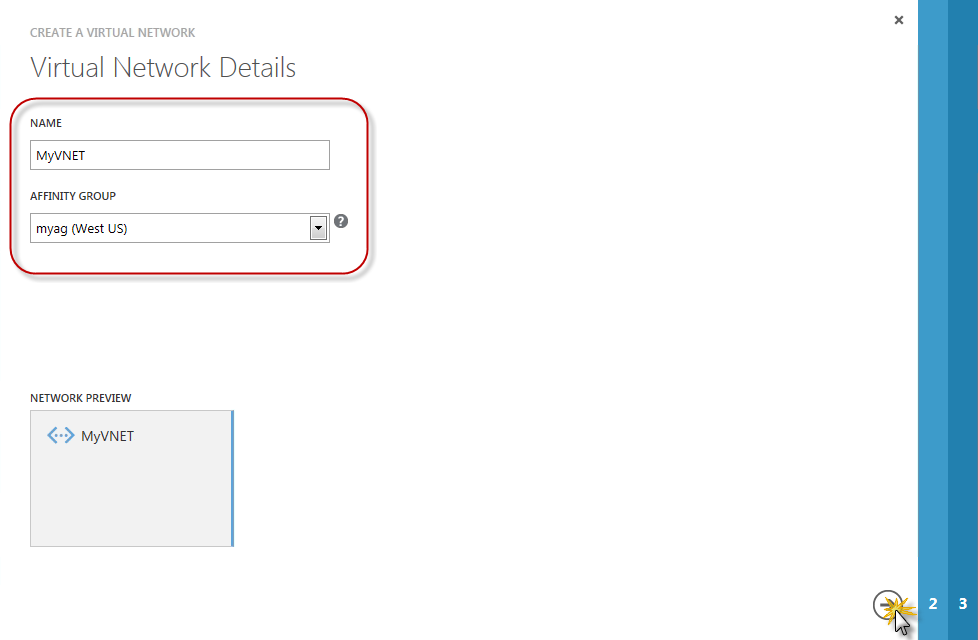
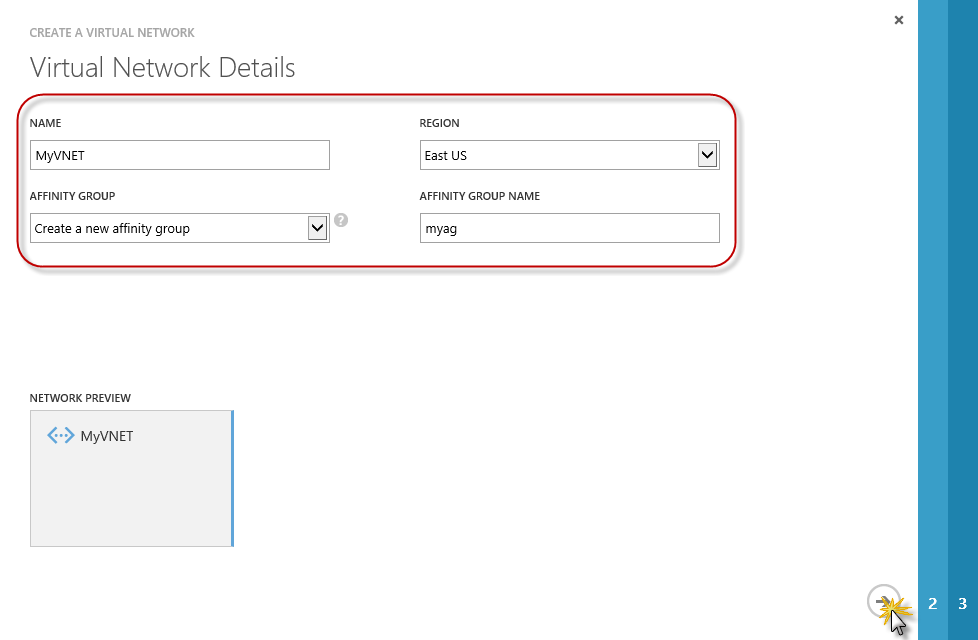
Updated document steps, wording and screenshots matching the new azure portal. Updated title in Lab.xml, LICENSE.md, README.md and Dependencies.depi removing the "- for Visual Studio 2012" legend. Deleted unnecessary screenshots.

diff --git a/HOL.md b/HOL.md
@@ -1,12 +1,12 @@
 <a name="handsonlab"></a>
-# Connecting a PaaS application to an IaaS Application with a Virtual Network - for Visual Studio 2012 #
+# Connecting a PaaS application to an IaaS Application with a Virtual Network #
 
 ---
 
 <a name="Overview"></a>
 ## Overview ##
 
-In this lab, you will create a Virtual Machine with SQL Server installed using Windows Azure Management Portal. Then you will modify and deploy a sample Web application to a new Cloud Service. By the end, you will communicate the Cloud Service and the SQL Server VM through a Virtual Network.
+In this lab, you will create a Virtual Machine with SQL Server installed using Windows Azure Management Portal. Then you will modify and deploy a sample Web application to a new Cloud Service. By the end, you will communicate the Cloud Service and the SQL Server Virtual Machine through a Virtual Network.
 
 <a name="Objectives"></a>
 ### Objectives ###
@@ -24,9 +24,7 @@ The following is required to complete this hands-on lab:
 
 - [Visual Studio Express 2012 for Web](http://www.microsoft.com/visualstudio/) or greater
 - [Windows Azure Tools for Microsoft Visual Studio 1.8](http://www.microsoft.com/windowsazure/sdk/)
-- A Windows Azure subscription with the Virtual Machines Preview enabled - [sign up for a free trial](http://aka.ms/WATK-FreeTrial)
-
-> **Note:** This lab was designed for Windows 8.
+- A Windows Azure subscription - [sign up for a free trial](http://aka.ms/WATK-FreeTrial)
 
 ---
 
@@ -42,28 +40,17 @@ This hands-on lab includes the following exercises:
  
 Estimated time to complete this lab: **45 minutes**.
 
+---
+
 <a name="GettingStarted"></a>
 ### Getting Started - Configuring Virtual Networking ###
 
 For this lab, you will define a virtual network where you can assign the virtual machines to specific subnets. 
 
 <a name="GettingStartedTask1"></a>
-#### Task 1 - Creating an Affinity Group ####
+#### Task 1 - Creating a new Virtual Network with a new affinity group ####
 
-The first task is to create an affinity group for the Virtual Network.
-
-1. Open a browser a go to <https://manage.windowsazure.com>. When prompted, login with your **Windows Azure** credentials. In the Windows Azure portal, click **Networks**, **Affinity Groups** and at the bottom click **Create**.
-
-1. Name the affinity group _myag_ and select a **Region**. Click the button to create the affinity group.
-
-	![Creating an Affinity Group](Images/creating-an-affinity-group.png?raw=true)
-
-	_Creating an Affinity Group_
-
-<a name="GettingStartedTask2"></a>
-#### Task 2 - Creating a new Virtual Network ####
-
-The next step is to create a new virtual network to your subscription.
+The first task is to create a new Virtual Network to your subscription with a new affinity group.
 
 1. In the Windows Azure Portal, click **New**, select **Networks** | **Virtual Network** and then click **Custom Create**.
 
@@ -71,13 +58,13 @@ The next step is to create a new virtual network to your subscription.
 
 	_Virtual Network custom create_
 
-1. Set a Name for the virtual network, for example _MyVNET_ along with the description and click the arrow button to continue.
+1. Set a Name for the virtual network, for example _MyVNET_. Select _Create a new affinity group_ option from the **affinity group** dropdown list, set a name for it, for example _myag_, and choose a region. Click the arrow button to continue.
 
 	![creating a new virtual network](Images/creating-a-new-virtual-network.png?raw=true)
 
 	_Creating a new virtual network_
 
-1. Set the **Address Space** value to _192.168.0.0/16_ and add a subnet named _AppSubnet_ with a prefix of _192.168.1.0/24_.
+1. At the top right corner, select the **CIDR** option. Then set the Address Space Starting IP value to _192.168.0.0_ and its Address CIDR to _/16_. Finally, add a subnet named _AppSubnet_ with a Starting IP of _192.168.1.0_ and an Address CIDR of _/24_. Click the arrow button to continue to the next step.
 
 	![Adding an address space and subnets](Images/adding-an-address-space-and-subnets.png?raw=true)
 
@@ -88,6 +75,8 @@ The next step is to create a new virtual network to your subscription.
 	![Creating the Virtual Network](Images/creating-the-virtual-network.png?raw=true "Creating the Virtual Network")
 
 	_Creating the Virtual Network_
+
+---
 
 <a name="Exercise1"></a>
 ### Exercise 1: Creating a SQL Server VM ###
@@ -105,25 +94,25 @@ In this task, you will create a new Virtual Machine using the Windows Azure Port
 
 	![Creating a New VM](Images/creating-a-new-vm.png?raw=true "Creating a New VM")
  
-	_Creating a New VM_
+	_Creating a New Virtual Machine_
 
-1. In the **Virtual machine operating system Selection** page, click **Platform Images** on the left menu and select the **SQL Server 2012** OS image from the list. Click the arrow to continue.
+1. In the **Virtual machine operating system selection** page, click **Platform Images** on the left menu and select the **SQL Server 2012 SP1** OS image from the list. Click the arrow to continue.
 
-1. In the **Virtual machine Configuration** page, enter a VM **Name**, complete the **Admin Password** and the **Confirmation** fields with the VM admin's password and set the VM **Size** to _Small_. Click the **Next** to continue.
+1. In the **Virtual machine configuration** page, enter a Virtual Machine **Name**, complete the **Admin Password** and the **Confirmation** fields with the Virtual Machine admin's password and set the Virtual Machine **Size** to _Small_. Click the **Next** to continue.
 
 	>**Note:** You will use these credentials in future steps to connect to the VM using remote desktop.
 
-	![VM Configuration](Images/vm-configuration.png?raw=true "VM Configuration")
+	![Virtual Machine Configuration](Images/vm-configuration.png?raw=true "Virtual Machine Configuration")
  
 	_Virtual Machine Configuration_
 
-1. In the **Virtual machine Mode** page, select **Standalone Virtual Machine** option and provide a unique name for the **DNS Name**. Finally, select a **Storage Account** or leave the default value _Use Automatically Generated Storage Account_ and then select the Virtual Network you created previously from the **Region/Affinity Group/Virtual Network** list and click **Next** to contiue.
+1. In the **Virtual machine mode** page, select **Standalone Virtual Machine** option and provide a unique name for the **DNS Name**. Finally, select a **Storage Account** or leave the default value _Use an automatically generated storage account_ and then select the Virtual Network you created previously from the **Region/Affinity Group/Virtual Network** list. Select the **APPSUBNET** virtual network subnet from the Virtual Network Subnet list and click **Next** to continue.
 
 	![Selecting VM mode](Images/selecting-vm-mode.png?raw=true "Selecting VM mode")
 
 	_Setting the Virtual Machine Mode_
 
-1. In the **Virtual machine Options** page, select the **APPSUBNET** virtual network subnet and click the finish button to create the new VM.
+1. In the **Virtual machine Options** page, leave the default values and click the finish button to create the new Virtual Machine.
 
 	![VM Options](Images/vm-options.png?raw=true "VM Options")
 
@@ -133,9 +122,9 @@ In this task, you will create a new Virtual Machine using the Windows Azure Port
 
 	> **Note:** It will take from 8 to 10 minutes for the Virtual Machine to complete the provisioning process.
 
-1. Now, you will create and attach empty data disks to store the SQL Server logs and data files, and you will also add an endpoint. To do this, in the **Virtual Machines** section, select the SQL Server VM you created in this task.
+1. Now, you will create and attach empty data disks to store the SQL Server logs and data files, and you will also add an endpoint. To do this, in the **Virtual Machines** section, select the SQL Server Virtual Machine you created in this task.
 
-1. In the VM's **Dashboard**, click **Attach** in the menu at the bottom of the page and select **Attach Empty Disk**.
+1. In the Virtual Machine's **Dashboard**, click **Attach** in the menu at the bottom of the page and select **Attach Empty Disk**.
 
 	![Attach Empty Disk](Images/attach-empty-disk.png?raw=true "Attach Empty Disk")
 
@@ -143,11 +132,11 @@ In this task, you will create a new Virtual Machine using the Windows Azure Port
 
 1. In the **Attach Empty Disk** page, set the **Size** to _50_ GB and create the Disk.
 
-1. Wait until the process to attach the disk finishes. Repeat the steps 8 to 10 to create a second disk.
+1. Wait until the attach disk process finishes. Repeat the steps 8 to 10 to create a second disk.
 
-1. You will see three disks for the VM: one for the **OS** and other two for **Data** and **Logs**.
+1. You will see three disks for the Virtual Machine: one for the **OS** and other two for **Data** and **Logs**.
 
-	> **Note:** It might take a few minutes until the data disks appear in the VM's dashboard within the Azure Portal.
+	> **Note:** It might take a few minutes until the data disks appear in the VM's dashboard within the Windows Azure Portal.
 
 <a name="Ex1Task2"></a>
 #### Task 2 - Configuring SQL Server 2012 Instance ####
@@ -160,7 +149,7 @@ In this task, you will set up SQL Server and configure it to enable remote acces
  
 	_Windows Azure Portal_
 
-1. Select your VM from the Virtual Machines list and click **Connect** to connect using **Remote Desktop Connection**.
+1. Select your Virtual Machine from the Virtual Machines list and click **Connect** to connect using **Remote Desktop Connection**.
 
 1. In the Virtual Machine, open **Server Manager** from **Start | All Programs | Administrative Tools**.
 
@@ -182,7 +171,7 @@ In this task, you will set up SQL Server and configure it to enable remote acces
 
 1. Follow the **New Simple Volume Wizard**. When asked for the **Volume Label** use _SQLData_.
 
-1. Wait until the process for the first disk is completed. Repeat the steps 5 to 8 but this time using the second disk. Set the **Volume Label** to _SQLLogs_.
+1. Wait until the process for the first disk is completed. Repeat the steps 6 to 8 but this time using the second disk. Set the **Volume Label** to _SQLLogs_.
 
 1. The **Disk Management** list of available disks should now show the **SQLData** and **SQLLogs** disks like in the following figure:
 
@@ -198,14 +187,14 @@ In this task, you will set up SQL Server and configure it to enable remote acces
  
 	_Enabling SQL Server Protocols_
 
-1. Go to the **SQL Server Services** node and right-click the **SQL Server (MSSQLSERVER)** item and select **Restart.**
+1. Select the **SQL Server Services** node and right-click the **SQL Server (MSSQLSERVER)** item and select **Restart.**
 
 <a name="Ex1Task3"></a>
 #### Task 3 - Installing the AdventureWorks Database ####
 
 In this task, you will add the **AdventureWorks** database that will be used by the sample application in the following exercise.
 
-1. In order to enable downloads from IE you will need to update **Internet Explorer Enhanced Security Configuration**. In the Azure VM, open **Server Manager** from **Start | All Programs | Administrative Tools**.
+1. In order to enable downloads from IE you will need to update **Internet Explorer Enhanced Security Configuration**. In the Windows Azure Virtual Machine, open **Server Manager** from **Start | All Programs | Administrative Tools**.
 
 1. In the **Server Manager** window, click **Configure IE ESC** within the **Security Information** section.
 
@@ -213,7 +202,7 @@ In this task, you will add the **AdventureWorks** database that will be used by 
  
 	_Configure Internet Explorer Enhanced Security_
 
-1. In the **Internet explorer Enhanced Security** dialog, turn **off** enhanced security for **Administrators** and click **OK**.
+1. In the **Internet explorer Enhanced Security Configuration** dialog, turn **off** enhanced security for **Administrators** and click **OK**.
 
  	![Internet Explorer Enhanced Security](./Images/Internet-Explorer-Enhanced-Security.png?raw=true "Internet Explorer Enhanced Security")
  
@@ -239,9 +228,9 @@ In this task, you will add the **AdventureWorks** database that will be used by 
 
 1. Restart SQL Server. In the **Object Explorer**, right-click on the server node and select **Restart**. 
 
-1. This lab uses the **AdventureWorks2012** database. Open an **Internet Explorer** browser and go to <http://msftdbprodsamples.codeplex.com/> to download  the **SQL Server 2012** sample databases. Once on the page click SQL Server 2012 DW and then download Adventure Works 2012 Data File. Download the file to F:\Data.
+1. This lab uses the **AdventureWorks2012** database. Open an **Internet Explorer** browser and go to <http://msftdbprodsamples.codeplex.com/> to download  the **SQL Server 2012** sample databases. Once on the page click _Download AdventureWorks Databases – 2008, 2008R2 and 2012_ and then download _AdventureWorks2012_Database.zip_ file. Download it to F:\Data.
 
-1. Right click the database file and open the properties. Click **unblock**.
+1. Extract the files from the zip one into F:\Data, then right click the database file and open the properties. Click **Unblock**.
 
 1. Add the **AdventureWorks2012** sample database to your SQL Server. To do this, open **SQL Server Management Studio**, connect to **(local)** using your Windows Account. Locate your SQL Server instance node and expand it.
 
@@ -261,7 +250,7 @@ In this task, you will add the **AdventureWorks** database that will be used by 
 
 1. Click **OK** to attach the database. 
 
-1. Create a Full Text Catalog for the database. You will consume this feature with a MVC application you will deploy in the next exercise. To do this, expand **Storage** node within **AdventureWorks2012** database.
+1. Create a Full Text Catalog for the database. You will consume this feature with an MVC application you will deploy in the next exercise. To do this, expand **Storage** node within **AdventureWorks2012** database.
 
 1. Right-click **Full Text Catalogs** folder and select **New Full-Text Catalog**.
 
@@ -275,7 +264,7 @@ In this task, you will add the **AdventureWorks** database that will be used by 
  
 	_Full-Text Catalog Name_
 
-1. Right-click the **AdventureWorksCatalog** and select **Properties**. Select the **Tables/Views** menu item. Add the **Production.Product** table to the **Table/View objects assigned to the Catalog** list. Check _Name_ from **Eligible columns**, select **English** in _Language for Word Breaker_ and click **OK**.
+1. Right-click the **AdventureWorksCatalog** and select **Properties**. Select the **Tables/Views** menu item. Add the **Production.Product** table to the **Table/view objects assigned to the catalog** list. Check _Name_ from **Eligible columns**, select **English** in _Language for Word Breaker_ column and click **OK**.
 
 	![Full-Text Catalog Properties](Images/full-text-catalog-properties.png?raw=true "Full-Text Catalog Properties")
  
@@ -283,7 +272,7 @@ In this task, you will add the **AdventureWorks** database that will be used by 
 
 1. Enable **Mixed Mode Authentication** to the SQL Server instance. To do this, in the **SQL Server Management Studio**, right-click the server instance and click **Properties**.
 
-1. Select the **Security** page in the right side pane and then select **SQL Server and Windows Authentication mode** under **Server Authentication** section. Click **OK** to save changes.
+1. Select the **Security** page in the left side pane and then select **SQL Server and Windows Authentication mode** under **Server Authentication** section. Click **OK** to save changes.
 
     ![Mixed authentication mode](Images/mixed-authentication-mode.png?raw=true "Mixed authentication mode")
 
@@ -321,7 +310,7 @@ In this task, you will add the **AdventureWorks** database that will be used by 
  
 	_Adding Database role membership to CloudShop user_
  
-	>**Note:** The application you will deploy in the next exercise uses Universal Providers to manage sessions. The first time the application run the Provider will create a Sessions table within AdventureWorks database. For that reason, you are assigning db_owner role for the CloudShop user. Once you run the application for the first time, you can remove this role for the user as it will not need those permissions anymore.
+	>**Note:** The application you will deploy in the next exercise uses Universal Providers to manage sessions. The first time the application run the Provider will create a Sessions table within AdventureWorks2012 database. For that reason, you are assigning db_owner role for the CloudShop user. Once you run the application for the first time, you can remove this role for the user as it will not need those permissions anymore.
 
 1. Close the **SQL Server Management Studio**.
 
@@ -361,6 +350,7 @@ In this task, you will add the **AdventureWorks** database that will be used by 
 
 1. Close **Windows Firewall with Advanced Security** window and then close the **Remote Desktop Connection**.
 
+---
 
 <a name="Exercise2"></a>
 ### Exercise 2: Deploying a Simple MVC4 Application ###
@@ -374,9 +364,9 @@ In this task, you will change the connection string to point to the SQL Server i
 
 1. Navigate to the **Windows Azure Portal** using a Web browser and sign in using the **Microsoft Account** associated with your Windows Azure account.
 
-1. In the left side pane, click on **Virtual Machines** and locate the SQL Server Virtual Machine you created in the previous exercise. Select the VM and then click **Connect**. 
+1. In the left side pane, click on **Virtual Machines** and locate the SQL Server Virtual Machine you created in the previous exercise. Select the Virtual Machine and then click **Connect**. 
 
-1. When prompted to save or open the .rdp file, click **Open** and then log on using the Admin credentials you defined when you created the VM.
+1. When prompted to save or open the .rdp file, click **Open** and then log on using the Admin credentials you defined when you created the Virtual Machine.
 
 1. Once logged on, open a **Command Prompt** window and type **ipconfig** to display the machine's IP configuration.
 
@@ -388,7 +378,7 @@ In this task, you will change the connection string to point to the SQL Server i
 
 1. Open Visual Studio Express 2012 for Web as administrator.
 
-1. Open the solution **IaaSDeploySimpleApp.sln** located in the folder **Ex02-DeploySampleApp** under the **Source** folder of this lab.
+1. Open the solution **IaasDeploySimpleApp.sln** located in the folder **Ex02-DeploySampleApp** under the **Source** folder of this lab.
 
 1. Compile the solution in order to download the required packages.
 
@@ -402,7 +392,7 @@ In this task, you will change the connection string to point to the SQL Server i
 	</connectionStrings>
 	````
 
-1. In order to enable communication between the Web Role and the SQL Server VM, you need configure the Web Role to connect to the same **Virtual Network** as the SQL Server VM. To do so, open the **ServiceConfiguration.Cloud.cscfg** under the **CloudShop.Azure** project and add the highlighted  configuration:
+1. In order to enable communication between the Web Role and the SQL Server Virtual Machine, you need configure the Web Role to connect to the same **Virtual Network** as the SQL Server Virtual Machine. To do so, open the **ServiceConfiguration.Cloud.cscfg** under the **CloudShop.Azure** project and add the highlighted  configuration:
 
 	<!--mark: 9-18-->
 	````XML
@@ -450,13 +440,13 @@ In this task, you will publish the Web Application to Windows Azure using Visual
 
 1. Click the **New** link located at the bottom of the page, select **Compute** | **Cloud Service** and then **Custom Create**.
 
-1. In the **Create a Cloud Service** window, enter **CloudShop** in the **Url** field, select **myag** from the **Region/Affinity Group** selection list and check the **Deploy a Cloud Service package now** option.
+1. In the **Create a cloud service** window, enter **CloudShop** in the **Url** field, select **myag** from the **Region or Affinity Group** selection list and check the **Deploy a Cloud Service package now** option.
 
 	![New Cloud Service](Images/new-cloud-service5.png?raw=true "New Cloud Service")
 
 	_New Cloud Service_
 
-1. In the **Publish your Cloud Service** window, enter a name for the new deployment (for instance **CloudShop**). Enter the location for your package and configuration files (ussually under the bin\Release\app.publish folder of your cloud project) and check the **Deploy even if one or more roles contain a single instance** option. Then click the **Finish** button.
+1. In the **Publish your cloud service** window, enter a name for the new deployment (for instance **CloudShop**). Enter the location for your package and configuration files (usually under the bin\Release\app.publish folder of your cloud project) and check the **Deploy even if one or more roles contain a single instance** option. Then click the **Finish** button.
 
 	![Publish your cloud service](Images/new-cloud-service4.png?raw=true "New Cloud Service")
 
@@ -464,8 +454,7 @@ In this task, you will publish the Web Application to Windows Azure using Visual
 
 1. Wait until your new _Cloud Service_ is deployed and provisioned.
 
-
-1. Once the _Cloud Service_ status gets to **Created** click on the service's name to go to the **Dashboard** page. Once there, click the **Site Url** link in the **Quick Glance** pane.
+1. Once the _Cloud Service_ status gets to **Created** click on the service's name and go to the **Dashboard** page. Once there, click the **Site Url** link in the **quick glance** pane.
 
 	![Cloud Service Dashboard](Images/cloud-service-dashboard.png?raw=true "Cloud Service Dashboard")
 

diff --git a/README.md b/README.md
@@ -1,4 +1,4 @@
-# Connecting a PaaS application to an IaaS Application with a Virtual Network - for Visual Studio 2012 #
+# Connecting a PaaS application to an IaaS Application with a Virtual Network #
 
 ## Hands-on Lab ##
 
@@ -6,7 +6,7 @@
 
 Hands-on labs are sets of step-by-step guides that are designed to help you learn how to use key Windows Azure services and features.  Each Lab provides instructions to guide you through the process of developing a complete application.
 
-In this lab, you will create a Virtual Machine with SQL Server installed using Windows Azure Management Portal. Then you will modify and deploy a sample Web application to a new Cloud Service. By the end, you will communicate the Cloud Service and the SQL Server VM through a Virtual Network.
+In this lab, you will create a Virtual Machine with SQL Server installed using Windows Azure Management Portal. Then you will modify and deploy a sample Web application to a new Cloud Service. By the end, you will communicate the Cloud Service and the SQL Server Virtual Machine through a Virtual Network.
 
 > **Note:** You can download the latest build of the Windows Azure Training Kit which includes a tested version of this HOL from here: http://bit.ly/WindowsAzureTK.
 
@@ -14,7 +14,7 @@ Visit our [GitHub Homepage](http://windowsazure-trainingkit.github.com/) for mor
 
 ### Repository Structure ###
 
-In the **root** folder of this repository you will find the Hands-On Lab (HOL) document, **HOL.md**. Before beginning with the HOL exercises, make sure you have followed all the required steps indicated at the setup section of the HOL document. 
+In the **root** folder of this repository you will find the hands-on Lab (HOL) document, **HOL.md**. Before beginning with the HOL exercises, make sure you have followed all the required steps indicated at the setup section of the HOL document. 
 
 In the **Source** folder you will find the source code of each of the exercises, as well as the assets and setup scripts. Throughout the HOL you will be instructed to open and explore the different solutions from the source folder. It is typically comprised of the following subfolders:
 
@@ -22,7 +22,7 @@ In the **Source** folder you will find the source code of each of the exercises,
 - **_Exercise Name_:** Each exercise that requires a programming solution has its own code folder.
   - **Begin:** The begin solution is the initial incomplete solution that you will finish by following the steps of the corresponding exercise.
   - **End:** The end solution is the final result you will achieve at the end of an exercise.
-- **Setup:** This folder contains the dependency files and the setup scripts necessary to initialize specific configurations of the lab, being its execution is required in the majority of the Hands-on Labs.
+- **Setup:** This folder contains the dependency files and the setup scripts necessary to initialize specific configurations of the lab, being its execution is required in the majority of the hands-on Labs.
 
 ### Get Started ###
 

diff --git a/LICENSE.md b/LICENSE.md
@@ -1,6 +1,6 @@
-Copyright 2012 Microsoft
+Copyright 2012 Microsoft
 
-The **Connecting a PaaS application to an IaaS Application with a Virtual Network - for Visual Studio 2012 Hands-on Lab** is licensed under the terms of the Apache License, Version 2.0.
+The **Connecting a PaaS application to an IaaS Application with a Virtual Network Hands-on Lab** is licensed under the terms of the Apache License, Version 2.0.
 You may use it according to the license as is most appropriate for your project on a case-by-case basis.
 
 The terms of this license can be found in http://www.apache.org/licenses/LICENSE-2.0
